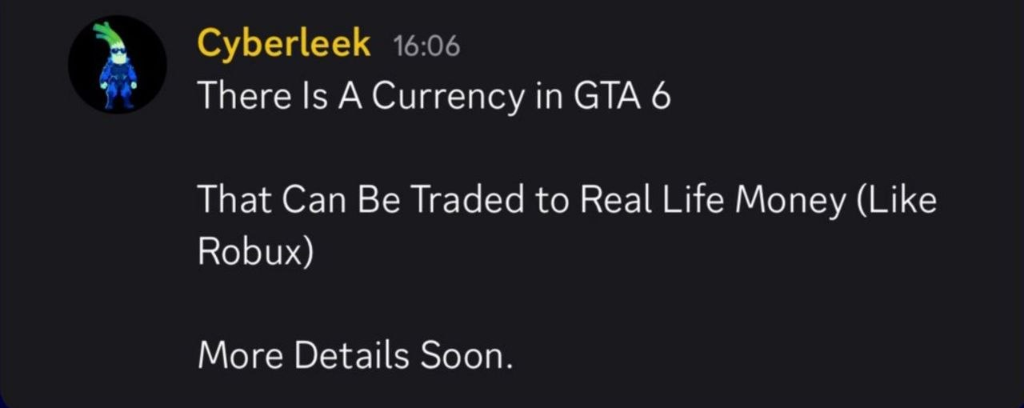
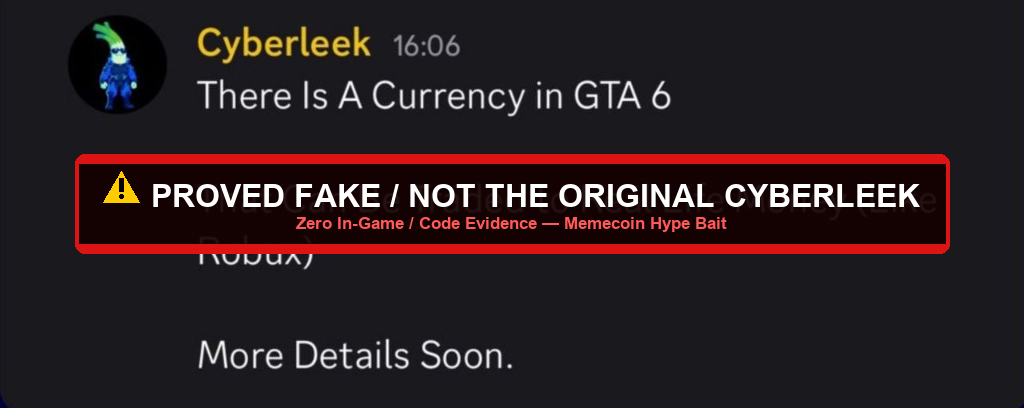
Clarify community research vs pretender accounts and add clear warning badges to Discord/Twitter claims

Changed region(s): [[0.0625, 0.3529, 0.9375, 0.6471]]

diff --git a/README.md b/README.md
@@ -6,17 +6,24 @@ Everything we know about the August 2026 GTA VI gameplay leaks. Every claim back
 
 💬 **Official Research Community Discord**: Join our community server created by the repo owner for leak research, evidence submission, and discussion: [**https://discord.gg/cF83SGS33m**](https://discord.gg/cF83SGS33m)
 
-> [!IMPORTANT]
+> [!CAUTION]
 > <a id="key-alerts"></a>
-> ### 🚨 Critical Facts & Latest Status (Must Read First)
+> ### ⚠ CRITICAL WARNING: DO NOT TRUST TWITTER/X OR DISCORD PRETENDER ACCOUNTS
 > 
-> * ✈ **ALLEGED NEXT LEAK DROP (Video 5: Plane DAY — High Confidence)**: The official website poll concludes today (**August 20, 2026 at 11:26 UTC**). While not 100% guaranteed (leakers can always delay or change plans), the site states the winning video — **`Plane (DAY) — Cinematic Drive-By`** — is scheduled to drop in the Content section within **24 hours after the poll ends**!
-> * 🟢 **LIVE STATUS UPDATE**: ALL official websites, portals, and Web3 gateway mirrors ([**`https://leek.vilenarios.com/`**](https://leek.vilenarios.com/), [**`https://cyberleek.ario.koltigin.xyz`**](https://cyberleek.ario.koltigin.xyz), [**`https://leek.turbo-gateway.com`**](https://leek.turbo-gateway.com), [**`https://cyberleek.turbo-gateway.com`**](https://cyberleek.turbo-gateway.com), [**`https://cyberleek.ar.io`**](https://cyberleek.ar.io)) are **100% ONLINE & ACTIVE (UP)**!
-> * ❌ **CYBERLEEK DOES NOT HAVE TWITTER (Confirmed Fake)**: Both the suspended [@cyberleek_ar_io](https://x.com/cyberleek_ar_io) and its secondary backup account [**@MrCyberLeek**](https://x.com/MrCyberLeek) on X are **100% FAKE / IMPOSTERS** run by an outside promoter seeking clout.
-> * 💬 **DISCORD Q&A CLAIMS ARE UNVERIFIED / PROMOTER FICTION**: All text claims from the old "Cyberleek Discord" (Lucia intro mission, prison pickup, 2023 map claim, Robux currency) were posted on a server shared by the fake Twitter promoter. Only the 4 video files, map images, on-chain Solana tx, and official website portals are genuine.
-> * 🎮 **THE 4 GAMEPLAY VIDEOS & MAP ARE GENUINE (97% Confidence)**: All 4 video files (`output.mp4`, `video2.mp4`, `taser.mp4`, `junkies.mp4`) and map files are genuine early Rockstar developer footage (actively taken down worldwide by Take-Two DMCA notices).
-> * ⚠ **TOKEN & PROBABLE SCAM WARNING**: The **`$CYBERLEEK` token and donation polls are run directly by the official Cyberleek website**, NOT by the Twitter account. Gaming news outlets, Ross Scott (Stop Killing Games), and community researchers agree this is **almost certainly a cryptocurrency pump-and-dump scheme** using GTA 6 hype to cash out. **Do NOT buy their token or send crypto.**
-> * 🇩🇪 **LEAKER IDENTITY**: 2018 German forum records on `szenebox.org` and German server hosting ([Hetzner Online in Nuremberg, Bavaria, Germany `49.13.45.141`](https://ipinfo.io/49.13.45.141)) confirm the leaker is an adult German sysadmin/hobbyist (33–38 years old).
+> **Please read this before reviewing any claims or evidence in this repository:**
+> 
+> * ❌ **THE ORIGINAL CYBERLEEK HAS NO TWITTER / X**: In the official 4th video drop (`junkies.mp4`), the original creator of the CyberLeek website placed a permanent watermark directly on the video:  
+>   > **`"CYBERLEEK DOES NOT HAVE TWITTER — OFFICIAL NEWS ONLY HERE"`**  
+>   Because of this explicit confirmation, **Twitter/X accounts claiming to be the original CyberLeek (such as suspended `@cyberleek_ar_io`, backup `@MrCyberLeek`, `@cyberleekario`, etc.) must NOT be treated as the original creator unless there is strong proof showing otherwise**. They are unverified imposter accounts looking for attention.
+> * 💬 **DISCORD PRETENDER ACCOUNTS ARE UNVERIFIED**: Accounts on Discord using names like `cyberleek`, `cyberleek_west`, or `surwest`, along with servers claiming inside leaks, are pretenders. Their storyline claims (Lucia intro mission, 2% prison pickup, robux-style currencies) have **zero proof in the leaked game files**.
+> * 🛡 **SEPARATING REAL COMMUNITY RESEARCH FROM FAKE PRETENDER CLAIMS**:
+>   * 🟢 **GENUINE INDEPENDENT COMMUNITY RESEARCH**: Independent analysis done by community members (such as NateDrake confirming build age, NikTek analyzing physics/mechanics, Phantomymous finding the Tate McRae song, 7Kkurd identifying the in-car CarPlay logo, martipk and the mapping project, theicybee mapping routes, and koffiekasper checking smart contract bytecode) is **real third-party research**. These community contributors are NOT scammers and their legitimate findings remain credited and untouched.
+>   * 🔴 **FAKE / UNVERIFIED PRETENDER CLAIMS**: Story spoilers, fake threats, blurred recycled photos, and staged SWAT raids coming from Twitter/X and Discord pretenders are unverified or proven fake.
+>   * 🎮 **THE 4 GAMEPLAY VIDEOS & MAP ARE GENUINE (97% Confidence)**: All 4 video files (`output.mp4`, `video2.mp4`, `taser.mp4`, `junkies.mp4`) and map files are genuine early Rockstar developer footage (actively taken down worldwide by Take-Two DMCA notices).
+>   * ⚠ **OFFICIAL WEBSITE MEMECOIN WARNING**: The `$CYBERLEEK` Solana token and voting polls run directly on the leaker's website are high-risk memecoin mechanics / probable pump-and-dump scheme. **Do NOT buy their token or send crypto.**
+>   * ✈ **ALLEGED NEXT LEAK DROP (Video 5: Plane DAY — High Confidence)**: The official website poll concluded on **August 20, 2026 at 11:26 UTC**. While leakers can always face delays or change plans, the site states the winning video — **`Plane (DAY) — Cinematic Drive-By`** — is scheduled to drop in the Content section within **24 hours after the poll ends**.
+>   * 🟢 **LIVE STATUS UPDATE**: ALL official websites, portals, and Web3 gateway mirrors ([**`https://leek.vilenarios.com/`**](https://leek.vilenarios.com/), [**`https://cyberleek.ario.koltigin.xyz`**](https://cyberleek.ario.koltigin.xyz), [**`https://leek.turbo-gateway.com`**](https://leek.turbo-gateway.com), [**`https://cyberleek.turbo-gateway.com`**](https://cyberleek.turbo-gateway.com), [**`https://cyberleek.ar.io`**](https://cyberleek.ar.io)) are **100% ONLINE & ACTIVE (UP)**.
+>   * 🇩🇪 **LEAKER IDENTITY**: 2018 German forum records on `szenebox.org` and German server hosting ([Hetzner Online in Nuremberg, Bavaria, Germany `49.13.45.141`](https://ipinfo.io/49.13.45.141)) confirm the leaker is an adult German sysadmin/hobbyist (33–38 years old).
 
 <div align="center">
 
@@ -78,13 +85,13 @@ Everything we know about the August 2026 GTA VI gameplay leaks. Every claim back
 
 * 📅 **[6. Complete Timeline & Date Proof](#timeline)**
 
-* 💬 **[7. What Was Claimed in Discord (Archived Q&A — Fake Promoter Claims)](#discord-qa)**
-  * ❌ [7.1. Lucia's Intro Mission (Debunked Speculation)](#qa-lucia-intro)
-  * ❌ [7.2. Prison Pickup & Campaign Progression (Debunked Speculation)](#qa-prison-pickup)
-  * 🟡 [7.3. Leaked Map from 2023 & PS5 Pro Performance](#qa-map-ps5pro)
-  * ❌ [7.4. "Cyberleek Did Not Record Footage" (Promoter Deflection)](#qa-leaker-recorded)
-  * ❌ [7.5. Real-Money Creator Currency / Robux (Debunked Crypto Bait)](#creator-currency-claim)
-  * 🚫 [7.6. Discord Server Bans, Imposter Servers & Fake Twitter Drama](#discord-bans)
+* 💬 **[7. Claims Made on Discord (Archived Evidence — Unverified & Pretender Claims)](#discord-qa)**
+  * ❌ [7.1. Lucia's Intro Mission (Unverified Speculation)](#qa-lucia-intro)
+  * ❌ [7.2. Prison Pickup & 2% Campaign Progression (Unverified Speculation)](#qa-prison-pickup)
+  * 🟡 [7.3. Leaked Map from 2023 & PS5 Pro Performance (Unverified Claim)](#qa-map-ps5pro)
+  * ❌ [7.4. "Cyberleek Did Not Record Footage" (Pretender Deflection)](#qa-leaker-recorded)
+  * ❌ [7.5. Real-Money Creator Currency / Robux Theory (Proved Fake Crypto Bait)](#creator-currency-claim)
+  * 🚫 [7.6. Discord Server Bans, Replacement Servers & Fake Twitter Drama](#discord-bans)
 
 * 🕵 **[8. Web Research: Online Setup, Dark Web & Debunking](#web-research)**
   * 👤 [8.1. Their Online Accounts & Known Handles](#official-accounts)
@@ -97,13 +104,13 @@ Everything we know about the August 2026 GTA VI gameplay leaks. Every claim back
     * 🔬 [8.4.4. Smart Contract Bytecode Analysis & Debunking "GTA Audio SDT" (@koffiekasper)](#solana-bytecode-analysis)
   * 🧅 [8.5. Hack Forums & The Dark Web Trail (Dread `CyberLeeker`)](#dread-trail)
     * 📜 [8.5.1. The 'Three Commandments' Manifesto & Demands](#manifesto-three-commandments)
-  * 🔍 [8.6. Community Debunking: Is the Twitter Account the Real Leaker?](#debunking-twitter)
+  * 🔍 [8.6. Twitter/X Pretender Accounts & Fake Staged Drama (Full Breakdown)](#debunking-twitter)
     * 🕵 [8.6.1. Username History Can Be Deceptive](#debunking-username-history)
     * 🖼 [8.6.2. AI-Generated Banners & Fake Teasers](#debunking-ai-banners)
-    * ❌ [8.6.3. Debunked Fake Threat: Blurred 2022 Leaks](#debunking-blurred-threats)
-    * 🎭 [8.6.4. The Outside Promoter / Middleman Reality](#debunking-middleman-reality)
+    * ❌ [8.6.3. Proved Fake Threat: Blurred 2022 Leaks as "New Footage"](#debunking-blurred-threats)
+    * 🎭 [8.6.4. The Imposter / Middleman Reality](#debunking-middleman-reality)
     * ❌ [8.6.5. Official Proof: "CYBERLEEK DOES NOT HAVE TWITTER"](#debunking-watermark-proof)
-    * 🚪 [8.6.6. Debunked Fake Drama: Account Ban & "FBI Raid" GIF Stunt](#debunking-fbi-raid-larp)
+    * 🚪 [8.6.6. Proved Fake Drama: Account Suspension & Staged "FBI Raid" Meme GIF](#debunking-fbi-raid-larp)
   * ✈ [8.7. Next Video Drop Confirmed: "Plane (DAY)" (Official Poll & $80 Vote)](#poll-plane-winner)
     * ⏱ [8.7.1. Poll Countdown & Release Window (Aug 20, 11:26 UTC)](#poll-countdown-timer)
     * 💸 [8.7.2. The $80.24 Vote Transfer (65,342 $CYBERLEEK)](#poll-whale-tx)
@@ -599,92 +606,108 @@ Every date here has a source you can check yourself:
 ---
 
 <a id="discord-qa"></a>
-## 7. What Was Claimed in Discord (Archived Q&A — ⚠ UNVERIFIED / PROMOTER FICTION)
+## 7. Claims Made on Discord (Archived Evidence — ⚠ UNVERIFIED & FAKE PRETENDER CLAIMS)
 
 > [!WARNING]
-> ⚠ **CRITICAL WARNING: These Discord Claims Are Unverified & Almost Certainly FAKE!**  
+> ⚠ **CRITICAL WARNING: These Discord Claims Come From Pretender Accounts!**  
 > 
 > * **How This Discord Was Created**: This Discord server was created and shared **exclusively through the fake `@cyberleek_ar_io` Twitter account**.
-> * **The Chain of Inauthenticity**: As proven by Video 4's official watermark (**`"CYBERLEEK DOES NOT HAVE TWITTER"`**), the Twitter account was a fake promoter. This means the person typing in this Discord server was **the same fake promoter pretending to be the leaker**.
-> * **What is REAL vs What is FAKE**:
->   * 🟢 **GENUINE EVIDENCE**: Only the **4 video files** (`output.mp4`, `video2.mp4`, `taser.mp4`, `junkies.mp4`), the **map images**, the **on-chain Solana transaction**, and the **official Arweave website portals** (`leek.vilenarios.com` / `cyberleek.ario.koltigin.xyz`) are genuine developer material.
->   * 🔴 **UNVERIFIED / PROMOTER FICTION**: The claims below have **zero proof in the video files, zero proof on the blockchain, and zero proof on the official website**. They were typed by a fake promoter looking for clout.
+> * **The Chain of Impersonation**: In the official Video 4 drop (`junkies.mp4`), the original website creator added a permanent watermark stating **`"CYBERLEEK DOES NOT HAVE TWITTER"`**. This confirms the Twitter account was an outside imposter, and the Discord accounts (`cyberleek`, `cyberleek_west`, `surwest`) were **pretender accounts looking for clout**.
+> * **Clear Separation**:
+>   * 🟢 **GENUINE EVIDENCE**: Only the **4 video files** (`output.mp4`, `video2.mp4`, `taser.mp4`, `junkies.mp4`), the **map images**, the **on-chain Solana transaction**, and the **official website portals** (`leek.vilenarios.com` / `cyberleek.ario.koltigin.xyz`) are genuine developer material.
+>   * 🔴 **UNVERIFIED / FAKE PRETENDER CLAIMS**: The text claims below have **zero proof in the leaked video files, zero proof in internal game code, and zero proof on the official website**. They were posted by pretenders seeking attention.
 > 
-> *These claims are archived below strictly for historical documentation and community research:*
+> *We keep the original screenshots below for documentation and community research, with clear warning labels:*
 
 <a id="qa-lucia-intro"></a>
-### 1. ❌ Lucia's Intro Mission (DEBUNKED / FAKE PROMOTER SPECULATION)
+### 7.1. ❌ Lucia's Intro Mission (UNVERIFIED / FAKE SPECULATION)
 ![Discord Claim 1](assets/discord_claim_1_lucia_intro.png)
-*❌ **DEBUNKED PROMOTER CLAIM**: A screenshot from the fake promoter's Discord claiming Lucia has an intro mission before prison.*
+*Original Discord message from user `cyberleek` claiming Lucia has an intro mission before prison.*
 
-* 🚫 **Verdict**: **FAKE / UNVERIFIED SPECULATION**
-* **The Reason**: This Discord server was created and run by the fake Twitter promoter. **Zero leaked developer clips or internal files support this claim.**
+* **Status**: 🔴 **UNVERIFIED / FAKE SPECULATION**
+* **Source / Context**: Posted by user `cyberleek` in the unverified leak Discord server (archived in community screenshots by `@gamingskew`).
+* **Direct Source / Archive Link**: [GamingSkew Archive Report on X](https://x.com/gamingskew)
+* **The Claim**: Claimed that Lucia is not introduced into the game straight away and has an intro mission prior to prison.
+* **Why It Is Fake / Unverified**: The poster was an unverified Discord pretender account. None of the leaked developer video clips, mission script logs, or internal files contain any reference to this intro sequence.
 
 ---
 
 <a id="qa-prison-pickup"></a>
-### 2. ❌ Prison Pickup & Campaign Progression (DEBUNKED / FAKE PROMOTER SPECULATION)
+### 7.2. ❌ Prison Pickup & 2% Campaign Progression (UNVERIFIED / FAKE SPECULATION)
 ![Discord Claim 2](assets/discord_claim_2_prison_pickup.png)
-*❌ **DEBUNKED PROMOTER CLAIM**: Screenshot claiming Jason picks Lucia up in a truck at 2% game completion.*
+*Original Discord message claiming Jason picks Lucia up in a truck at 2% game completion.*
 
-* 🚫 **Verdict**: **FAKE / UNVERIFIED SPECULATION**
-* **The Reason**: Pure guessing by the promoter. None of the leaked developer documents or video files mention this storyline point.
+* **Status**: 🔴 **UNVERIFIED / FAKE SPECULATION**
+* **Source / Context**: Posted by user `cyberleek` in the unverified Discord server.
+* **Direct Source / Archive Link**: [GamingSkew Archive Report on X](https://x.com/gamingskew)
+* **The Claim**: Claimed that Jason picks Lucia up from prison in a pickup truck at exactly 2% story completion.
+* **Why It Is Fake / Unverified**: Pure guesswork based on Trailer 1 scenes. None of the leaked developer documents, test builds, or clip logs support this specific campaign milestone.
 
 ---
 
 <a id="qa-map-ps5pro"></a>
-### 3. 🟡 The Leaked Map is From 2023 & PS5 Pro (PARTIALLY PLAUSIBLE, BUT FROM FAKE DISCORD)
+### 7.3. 🟡 Leaked Map from 2023 & PS5 Pro Performance (UNVERIFIED CLAIM)
 ![Discord Claim 3](assets/discord_claim_3_map2023_ps5pro.png)
-*🟡 **UNVERIFIED DISCORD SOURCE**: Screenshot discussing 2023 map date and PS5 Pro 30 FPS.*
+*Original Discord message discussing 2023 map date and PS5 Pro frame rate.*
 
-* ⚠ **Verdict**: **UNVERIFIED SOURCE**
-* **The Reason**: While industry insider NateDrake confirmed the build is over a year old, this specific Discord message comes from the fake promoter looking for attention.
+* **Status**: 🟡 **UNVERIFIED CLAIM (No Technical Proof Provided)**
+* **Source / Context**: User `cyberleek` answering questions from Discord users `@kieren` and `@Vladimir`.
+* **Direct Source / Archive Link**: [GamingSkew Archive Report on X](https://x.com/gamingskew)
+* **The Claim**: Claimed the leaked map is from 2023 and answered "Not yet" when asked if the game runs at 60 FPS on PS5 Pro.
+* **Why It Is Unverified**: While independent industry researcher NateDrake independently confirmed the build is over a year old, this specific Discord message comes from an unverified pretender account with no debug data or hardware logs to back up the PS5 Pro claim.
 
 ---
 
 <a id="qa-leaker-recorded"></a>
-### 4. ❌ "Cyberleek Did Not Record The Footage" (PROMOTER DEFLECTION)
+### 7.4. ❌ "Cyberleek Did Not Record The Footage" (PRETENDER DEFLECTION)
 ![Discord Claim 4](assets/discord_claim_4_not_the_player.png)
-*❌ **PROMOTER DEFLECTION**: Discord screenshot claiming the leaker wasn't holding the controller.*
+*Original Discord screenshot claiming the account holder was not holding the controller.*
 
-* 🚫 **Verdict**: **PROMOTER DEFLECTION**
-* **The Reason**: The fake promoter used this excuse to explain why they couldn't produce live custom gameplay on demand.
+* **Status**: 🔴 **PRETENDER DEFLECTION**
+* **Source / Context**: User `cyberleek` in Discord responding to community requests for custom gameplay.
+* **Direct Source / Archive Link**: [GamingSkew Archive Report on X](https://x.com/gamingskew)
+* **The Claim**: Claimed they were not the person holding the controller during the playtest sessions.
+* **Why It Is A Deflection**: When community members asked the Discord account to record new footage or toggle specific debug settings, the user made up excuses to explain why they couldn't produce any new gameplay.
 
 ---
 
 <a id="creator-currency-claim"></a>
-### 5. ❌ In-Game Real-Money Creator Currency / Robux Theory (100% DEBUNKED CRYPTO BAIT)
+### 7.5. ❌ Real-Money Creator Currency / Robux Theory (PROVED FAKE CRYPTO BAIT)
 ![Discord Claim 5](assets/discord_claim_5_creator_currency_robux.png)
-*❌ **DEBUNKED FAKE CLAIM**: Discord message claiming GTA 6 has a currency traded for real money like Robux.*
+*Original Discord message claiming GTA 6 has a real-money creator currency like Robux.*
 
 ![Gaming Culture Tweet](assets/discord_claim_5_creator_currency_tweet.png)
-*Report by `@GamingCulture` covering the unverified Discord claim.*
+*Third-party news coverage by `@GamingCulture` reporting on the unverified Discord claim.*
 
-* 🚫 **Verdict**: **100% FAKE / CRYPTO PUMP-AND-DUMP BAIT**
-* **The Reason**: The promoter provided **zero code strings, zero UI pictures, and zero leaked database proof**. This was an obvious lie made up to bait crypto buyers into purchasing their `$CYBERLEEK` memecoin.
+* **Status**: 🔴 **PROVED FAKE / CRYPTO PUMP BAIT**
+* **Source / Context**: Message posted by user `cyberleek` in Discord claiming: *"There Is A Currency in GTA 6 That Can Be Traded to Real Life Money (Like Robux) More Details Soon."*
+* **Direct News Report Link**: [GamingCulture Report on X](https://x.com/GamingCulture)
+* **Why It Is Proven Fake**: The poster provided zero code strings, zero UI assets, and zero developer documentation. This was fabricated specifically to hype up crypto traders into buying the `$CYBERLEEK` Solana token.
 
 ---
 
 <a id="discord-bans"></a>
-### 7.5. Discord Server Bans, Imposter Servers & The Fake Twitter Feud
-
+### 7.6. ❌ Discord Server Bans, Replacement Servers & Fake Twitter Drama
 ![Discord Ban Proof](assets/discord_old_server_banned_proof.png)
-*Cyberleek operating under the alt handle `cyberleek_west` (and `surwest`) on their replacement server, confirming Discord banned the old one.*
+*Screenshot from replacement server showing `cyberleek_west` confirming Discord banned the old server.*
 
 ![New Server Restricted Proof](assets/discord_new_server_restricted_proof.png)
-*Cyberleek (`cyberleek_west`) posting on the newest server: "the server was restricted again... rip".*
+*Screenshot showing `cyberleek_west` on the restricted backup server stating "the server was restricted again... rip".*
 
 ![Fake Twitter Disavowal Tweet](assets/debunking_fake_discord_cyberleek_tweet.png)
-*~~Official tweets~~ ❌ **DEBUNKED FAKE TWEETS**: Posts by the fake promoter account `@cyberleek_ar_io` claiming "8 PM EST drops were from a fake Discord account."*
+*Tweets from the fake `@cyberleek_ar_io` Twitter account trying to disown Discord leak schedules.*
 
-* **Original Server Banned**: Discord banned the original official leak server following copyright and TOS strikes.
-* **New Replacement Server (`ZWjnQSSJ2P`)**: Created as a temporary backup, but was quickly restricted by Discord moderation.
-* **❌ Fake Twitter Promoter Drama (Debunked)**:
-  * Following the bans, the fake Twitter account `@cyberleek_ar_io` posted:
-    > ~~*"The 8PM est wasn't me, that was a fake dude on discord"*~~  
-    > ~~*"The 8PM est wasn't me. That was not me and it was a fake discord account"*~~  
-  * **The Reality**: These tweets were **100% fake theater**. As proven by Video 4's official watermark (**`"CYBERLEEK DOES NOT HAVE TWITTER"`**), the Twitter account was an outside imposter pretending to be the leaker while calling out *other* imposters for clout.
-* **Takeaway**: Any new Discord servers or Twitter accounts claiming scheduled leak drops are **100% fake imposters** capitalizing on the confusion.
+* **Status**: 🔴 **PROVED FAKE / PRETENDER DRAMA**
+* **Direct Source Links**:
+  * Fake Twitter post: [https://x.com/cyberleek_ar_io](https://x.com/cyberleek_ar_io) *(Suspended by X)*
+  * Replacement Discord Server: `ZWjnQSSJ2P` *(Restricted/Banned)*
+* **What Happened**:
+  * Discord banned the initial leak server for terms of service and copyright violations.
+  * The pretender created backup servers under handles like `cyberleek_west` and `surwest`, which were also quickly restricted.
+  * The fake Twitter account `@cyberleek_ar_io` posted:
+    > *"The 8PM est wasn't me, that was a fake dude on discord"*  
+    > *"The 8PM est wasn't me. That was not me and it was a fake discord account"*
+* **The Reality**: This was staged drama between imposters fighting for social media attention. As proven by Video 4's official watermark (**`"CYBERLEEK DOES NOT HAVE TWITTER"`**), the Twitter account and Discord servers were unverified pretenders with no official connection to the real video releases.
 
 ---
 
@@ -856,40 +879,47 @@ Before the leak blew up across Twitter and Reddit, the leaker actually dropped t
 ---
 
 <a id="debunking-twitter"></a>
-### 5. Community Debunking: Is the Twitter Account Even the Real Leaker?
+### 5. Twitter/X Pretender Accounts & Fake Staged Drama (Full Breakdown)
 
-*(Investigation & evidence credits: Discord users **`garza`** and **`vaaatiel`**)*
+*(Investigation & evidence credits: Discord community researchers **`garza`** and **`vaaatiel`**)*
 
 ![Garza Debunking Breakdown](assets/debunking_garza_analysis.png)
-*Discord check by user `garza` breaking down odd details with the @cyberleek_ar_io Twitter account.*
+*Discord investigation by community researcher `garza` pointing out major inconsistencies with the @cyberleek_ar_io account.*
 
-Community researchers looking closely at the `@cyberleek_ar_io` X account noticed several major red flags suggesting the person tweeting might **not even be the original leaker**, but rather a crypto promoter milking the real leaks for token hype:
+Community researchers who closely analyzed the `@cyberleek_ar_io` Twitter/X account found clear proof that the person tweeting was **an imposter/promoter**, NOT the creator of the leak website:
 
 <a id="debunking-username-history"></a>
 #### 1. Username History Can Be Deceptive
 ![Vaaatiel Username Change Proof](assets/debunking_vaaatiel_username_proof.png)
-*Proof by `vaaatiel` showing how Twitter's "About" page displays older name change dates.*
-* Twitter's "About this account" date can be delayed or show old data from a renamed account. The March 2026 creation date doesn't prove the account was created specifically for this leak from day one — it could have been an old account renamed right before the leak.
+*Research by community member `vaaatiel` showing how Twitter's "About" page displays previous name change dates.*
+* **Status**: 🟢 **VERIFIED COMMUNITY RESEARCH**
+* **Finding**: Twitter's "About this account" date can reflect old data from a renamed profile. A creation date from earlier in 2026 does not prove the account was originally set up by the leaker — it was likely an existing profile renamed right before the leaks to capitalize on hype.
 
 <a id="debunking-ai-banners"></a>
 #### 2. AI-Generated Banners & Fake Teaser Images
-* The account's header banners and teasers were found to be AI-upscaled pictures made from old 2022 leak screenshots, trying to look like they have unlimited new clips.
+* **Status**: 🔴 **PROVED FAKE ASSETS**
+* **Finding**: The Twitter account's header banners and teaser pictures were AI-upscaled crops made from old 2022 leaks, designed to trick followers into thinking they had access to brand-new unreleased clips.
 
 <a id="debunking-blurred-threats"></a>
-#### 3. ❌ DEBUNKED FAKE THREAT: Posting Blurred 2022 Leaks as "New Clips"
+#### 3. ❌ PROVED FAKE THREAT: Posting Blurred 2022 Leaks as "New Footage"
 ![Blurred 2022 Leak Tweet](assets/debunking_blurred_2022_leak_tweet.png)
-*❌ **DEBUNKED FAKE POST**: The fake @cyberleek_ar_io account threatened Rockstar with a blurred image that was actually from the old September 2022 nightclub leak.*
+*Tweet by @cyberleek_ar_io threatening Rockstar with a blurred image taken from the 2022 nightclub leak.*
 
-* 🚫 **Verdict**: **100% FAKE / RECYCLED OLD FOOTAGE**
-* **The Reason**: The promoter didn't have any exclusive new footage to leak. They took a frame from the 2022 Port Gellhorn nightclub leak, blurred it in Photoshop, and pretended it was a brand-new threat.
+* **Status**: 🔴 **PROVED FAKE / RECYCLED 2022 FOOTAGE**
+* **Direct Tweet URL**: [https://x.com/cyberleek_ar_io/status/2089792363254153406](https://x.com/cyberleek_ar_io/status/2089792363254153406) *(Archived before account suspension)*
+* **The Claim**: The account threatened Rockstar Games saying: *"@RockstarGames I will continue leaking GTA 6 clips if u do not come out and apologize..."* with an attached blurred screenshot.
+* **Why It Is Proven Fake**: Reverse-image analysis proved the screenshot was a frame from the old September 2022 Port Gellhorn nightclub leak, blurred in an image editor to fake a new threat.
 
 ---
 
 <a id="debunking-middleman-reality"></a>
-#### 4. The Promoter / Middleman Reality
+#### 4. The Imposter / Middleman Reality
 ![Twitter for iPhone](assets/debunking_twitter_for_iphone.png)
-*Tweets sent via "Twitter for iPhone" at strange hours.*
-* **The Takeaway**: The real video files are genuine developer footage, and the **`$CYBERLEEK` Solana token, donation smart contracts, and voting polls are run directly by the official Cyberleek website itself**. The `@cyberleek_ar_io` Twitter account was an outside imposter/promoter piggybacking on the leaker's coin to build social media clout. However, the token itself remains a **probable cryptocurrency pump-and-dump scheme** run by the leakers to extract money from excited gamers.
+*Tweets sent via "Twitter for iPhone" from the imposter account.*
+
+* **Status**: 🔴 **PROVED IMPOSTER ACCOUNT**
+* **Direct Source Link**: [https://x.com/cyberleek_ar_io](https://x.com/cyberleek_ar_io)
+* **The Takeaway**: The real video files are genuine developer footage, and the **`$CYBERLEEK` Solana token and voting polls are run directly by the official Cyberleek website itself**. The `@cyberleek_ar_io` Twitter account was an outside imposter piggybacking on the leak hype for social media followers. At the same time, the token itself remains a **probable cryptocurrency pump-and-dump scheme** run by the leakers to make money off fans.
 
 ---
 
@@ -898,25 +928,29 @@ Community researchers looking closely at the `@cyberleek_ar_io` X account notice
 ![Cyberleek No Twitter Watermark](assets/cyberleek_watermark_no_twitter_proof.png)
 *Official watermark from the 4th video drop (`junkies.mp4`) explicitly proving Cyberleek never had Twitter.*
 
-* 🚫 **Verdict**: **ALL TWITTER ACCOUNTS ARE 100% FAKE / IMPOSTERS**
-* **The Reason**: In the 4th video drop (`junkies.mp4`), the official leaker placed a large watermark directly over the video frame:
+* **Status**: 🔴 **ALL TWITTER ACCOUNTS ARE 100% FAKE / IMPOSTERS**
+* **Primary Evidence**: In the 4th video release (`junkies.mp4`), the official website uploader placed a large hardcoded watermark across the screen:
   > **`CYBERLEEK DOES NOT HAVE TWITTER — OFFICIAL NEWS ONLY HERE`**
-* This officially confirmed that the Twitter account was an unauthorized promoter, and the real leaker communicates strictly through their Web3 website.
+* **What This Concludes**: The website creator explicitly disowned all Twitter accounts. Any account on X claiming to represent CyberLeek is an unverified imposter.
 
 ---
 
 <a id="debunking-fbi-raid-larp"></a>
-#### 6. ❌ DEBUNKED FAKE DRAMA: Account Suspended & Fake "FBI Raid" GIF Stunt
+#### 6. ❌ PROVED FAKE DRAMA: Account Suspension & Staged "FBI Raid" Meme GIF
 <div align="center">
   <img src="assets/fake_twitter_cyberleek_suspended.png" alt="Fake Twitter Suspended" width="300" />
   <img src="assets/fake_twitter_secondary_mrcyberleek_fbi_gif.png" alt="Fake Secondary FBI Raid GIF" width="300" />
 </div>
 
-*Left: `@cyberleek_ar_io` suspended on X. Right: Backup account `@MrCyberLeek` posting a SWAT/FBI door-breach GIF pretending to be raided. (Discovery credit: `jorin77` on Discord)*
+*Left: `@cyberleek_ar_io` suspended on X. Right: Secondary account `@MrCyberLeek` posting a SWAT door-breach meme GIF pretending to be raided.*
 
-* 🚫 **Verdict**: **100% FAKE DRAMA / LARP**
-* **What Happened**: On August 19, 2026 (~23:48 UTC), X suspended `@cyberleek_ar_io`. Minutes later, their backup account `@MrCyberLeek` posted a SWAT door-breach GIF pretending they got raided by police.
-* **The Reason It's Fake**: In a real federal raid, **police immediately seize all phones and computers**. You don't stay on Twitter on your iPhone posting SWAT memes 2 minutes later. It was just a fake dramatic exit by the promoter.
+* **Status**: 🔴 **PROVED FAKE DRAMA / STAGED LARP**
+* **Direct Source Links**:
+  * Suspended main account: [https://x.com/cyberleek_ar_io](https://x.com/cyberleek_ar_io)
+  * Secondary fake account: [https://x.com/MrCyberLeek](https://x.com/MrCyberLeek)
+  * FBI GIF tweet: [https://x.com/MrCyberLeek/status/2089796792348574100](https://x.com/MrCyberLeek/status/2089796792348574100)
+* **What Happened**: On August 19, 2026 (~23:48 UTC), X suspended `@cyberleek_ar_io`. Minutes later, the secondary account `@MrCyberLeek` posted a stock SWAT door-breach GIF pretending they were being raided by federal law enforcement.
+* **Why It Is Proven Fake**: In a real police raid, law enforcement immediately seizes all phones, computers, and networking gear. A real target does not stay logged into Twitter on their iPhone posting SWAT memes minutes later. This was a staged exit stunt by the imposter.
 
 ---
 
